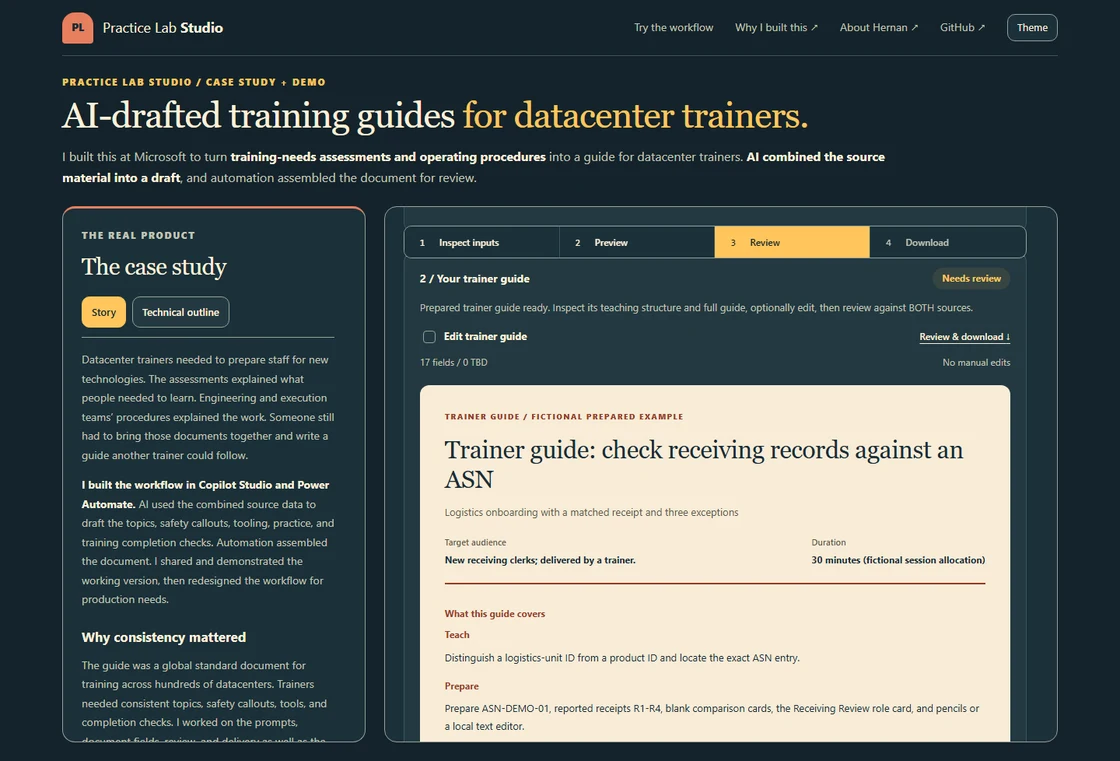
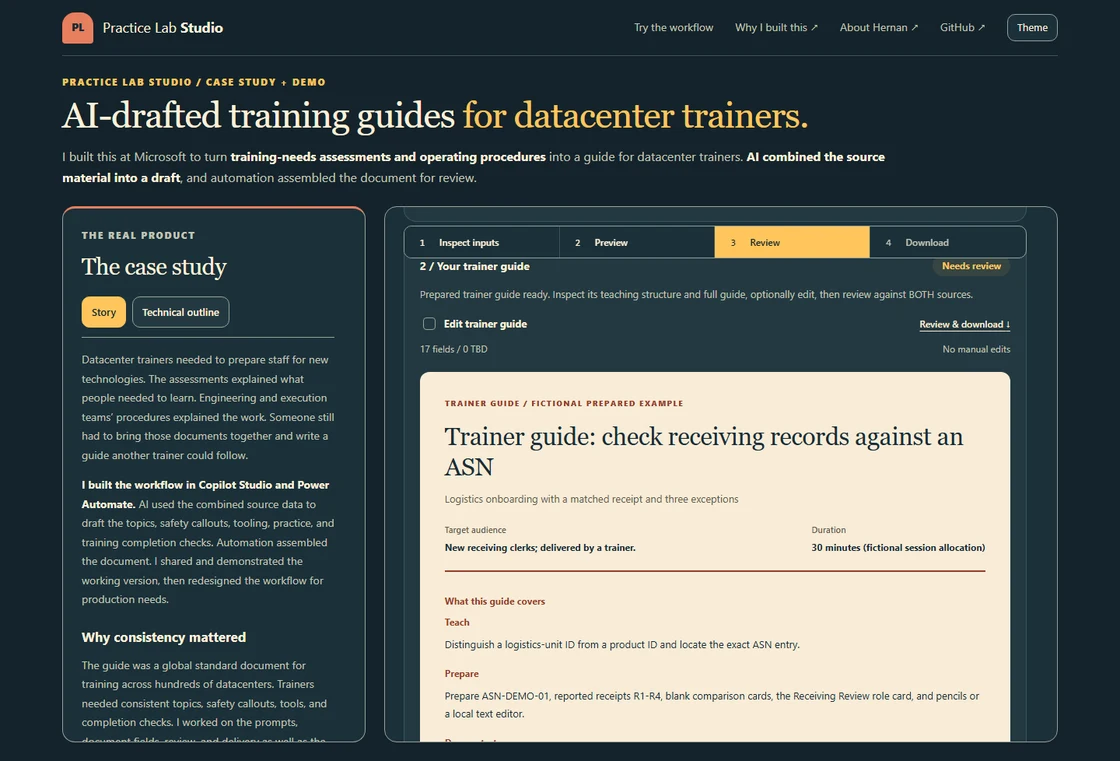
Simplify the demo source panel

Changed region(s): [[0.375, 0.3325, 0.9062, 0.9671]]

diff --git a/lab.html b/lab.html
@@ -113,11 +113,6 @@
             <button id="generate" class="button primary full-width" type="button">Create prepared trainer guide <span aria-hidden="true">&#8594;</span></button>
             <button id="reset" class="button secondary full-width" type="button">Reset this demo</button>
           </div>
-          <p class="source-hint">Both documents are needed to create the guide.</p>
-          <details class="safety-tools">
-            <summary>What if either input is missing?</summary>
-            <div class="fault-control"><label><input id="retrieval-failure" type="checkbox"> Simulate unavailable assessment</label><label><input id="sop-failure" type="checkbox"> Simulate unavailable SOP</label><p>Either failure clears the draft and stops creation. Restore the missing input by unchecking it, then retry. Reset restores both sources.</p></div>
-          </details>
         </aside>
         <section class="draft-panel panel" aria-labelledby="draft-heading">
           <div class="panel-heading"><h3 id="draft-heading" tabindex="-1">2 / Your trainer guide</h3><span id="draft-state" class="pill neutral">Ready when you are</span></div>
@@ -159,7 +154,9 @@
           </div>
         </section>
       </div>
-      <details class="trace-panel"><summary>Behind the scenes: workflow trace <span id="trace-count">0 events</span></summary><ol id="trace" aria-label="Workflow events"><li>No actions yet.</li></ol></details>
+      <details class="trace-panel"><summary>Behind the scenes: workflow trace <span id="trace-count">0 events</span></summary><ol id="trace" aria-label="Workflow events"><li>No actions yet.</li></ol>
+        <div class="fault-control"><label><input id="retrieval-failure" type="checkbox"> Simulate unavailable assessment</label><label><input id="sop-failure" type="checkbox"> Simulate unavailable SOP</label><p>Either failure clears the draft and stops creation. Restore the missing input by unchecking it, then retry. Reset restores both sources.</p></div>
+      </details>
     </section>
     </div>
   </main>

diff --git a/src/lab.css b/src/lab.css
@@ -65,13 +65,12 @@
 .lab-page .field-label { font-size: 13px; }
 .lab-page #sample-summary { font-size: 13px; line-height: 1.65; margin-bottom: 12px; }
 .lab-page #generate { gap: 10px; text-align: left; }
-.source-hint { text-align: center; color: var(--cp-text-muted); font-size: 12px; margin: 8px 0 12px; }
-.source-document, .safety-tools { border-top: 1px solid var(--cp-border); padding: 16px 0; }
-.source-document > summary, .safety-tools > summary { font-size: 12px; font-weight: 650; cursor: pointer; }
+.source-document { border-top: 1px solid var(--cp-border); padding: 16px 0; }
+.source-document > summary { font-size: 12px; font-weight: 650; cursor: pointer; }
 .source-document > summary span { display: block; color: var(--cp-text-muted); font-size: 11px; font-weight: 400; margin: 4px 0 0 15px; }
 .source-document .small { font-size: 12px; margin-block: 16px; }
 .source-document .source-text { min-height: 0; max-height: 340px; margin: 0; padding: 12px; }
-.safety-tools .fault-control { margin: 16px 0 0; }
+.trace-panel .fault-control { margin: 16px 0 0; }
 .lab-page #reset { margin-top: 0; }
 .lab-page .status { font-size: 13px; line-height: 1.7; }
 .lab-page .empty-state { min-height: 250px; background: var(--cp-bg-elevated); border: 1px dashed var(--cp-border-strong); border-radius: 12px; padding: 24px; }

diff --git a/README.md b/README.md
@@ -55,7 +55,7 @@ I built a workflow that used AI to combine the assessment and procedure data int
 
 The preview shows only **applied** values. Pending edits never change it or bypass approval, even if you leave edit mode; apply or discard them before approving. Changing the guide or resetting clears the preview and all edits. Reloading also clears this in-memory session.
 
-Distinct source excerpts are visible immediately; each document also has expandable full text. Open **What if either input is missing?** and simulate an unavailable assessment or SOP. Either failure clears the draft and stops drafting, with no fallback. Restore the input and retry, or reset to restore both. The workflow trace is secondary.
+Distinct source excerpts are visible immediately; each document also has expandable full text. Optional failure checks are inside **Behind the scenes: workflow trace**, not the main source panel. Simulate an unavailable assessment or SOP there: either failure clears the draft and stops drafting, with no fallback. Restore the input and retry, or reset to restore both.
 
 Choose **Logistics** to compare fictional receiving records with advance shipment information, or **IT service desk** to classify fictional incident reports and prepare a routing handoff. Each has its own L&D assessment, engineering SOP, prepared guide, trainer edit, and Word download. These are public illustrations of established industry tasks, not additional projects the author deployed. [Research and example provenance](docs/CASE_STUDY.md#public-examples) distinguish the published guidance from the invented local policies and records.
 
